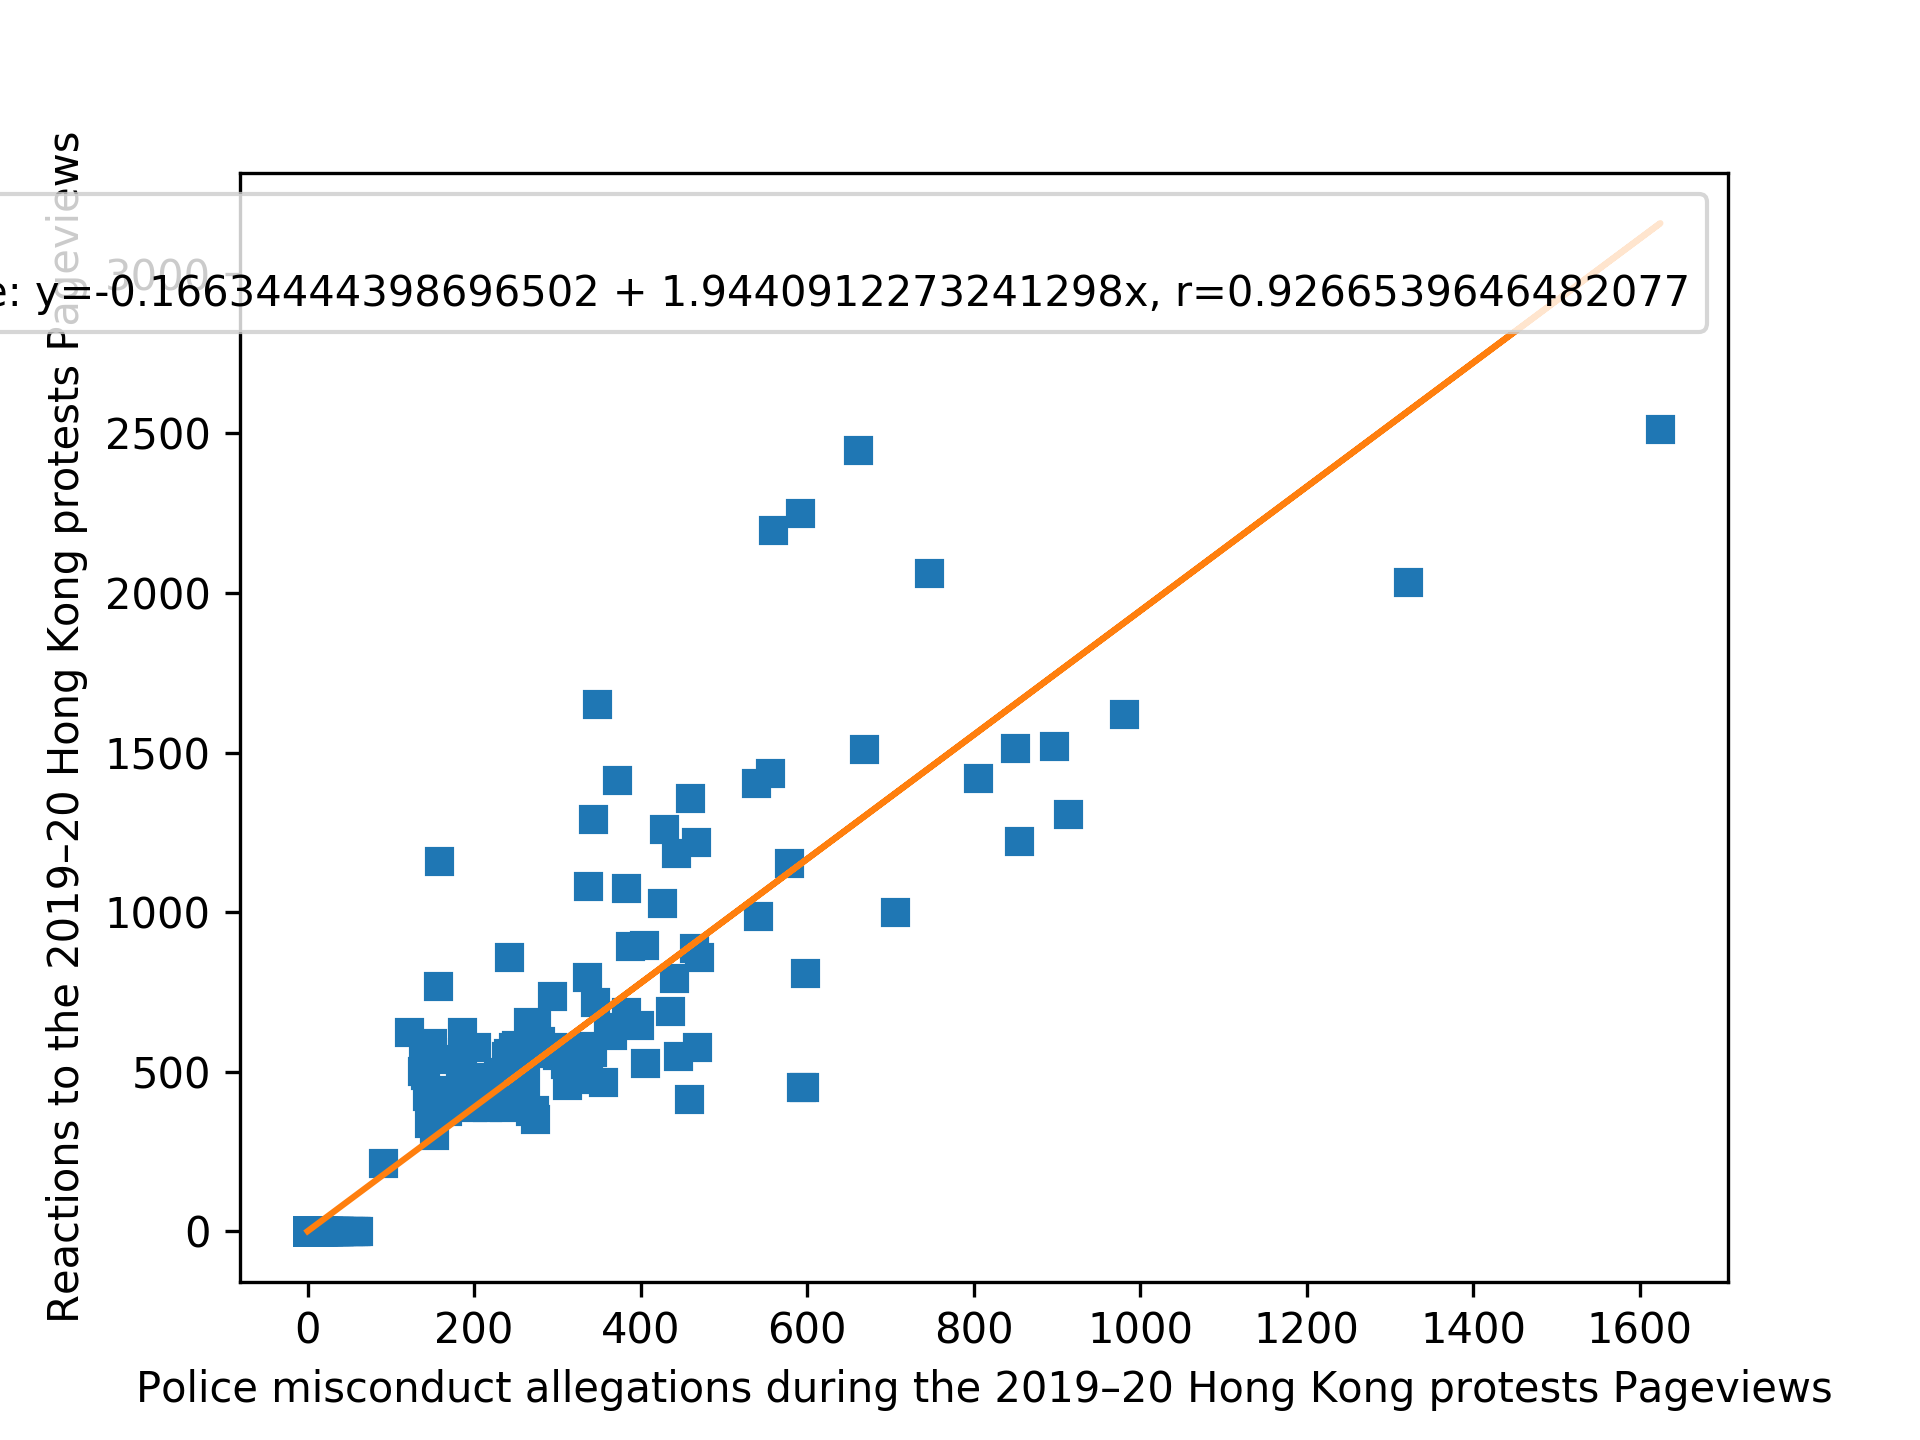
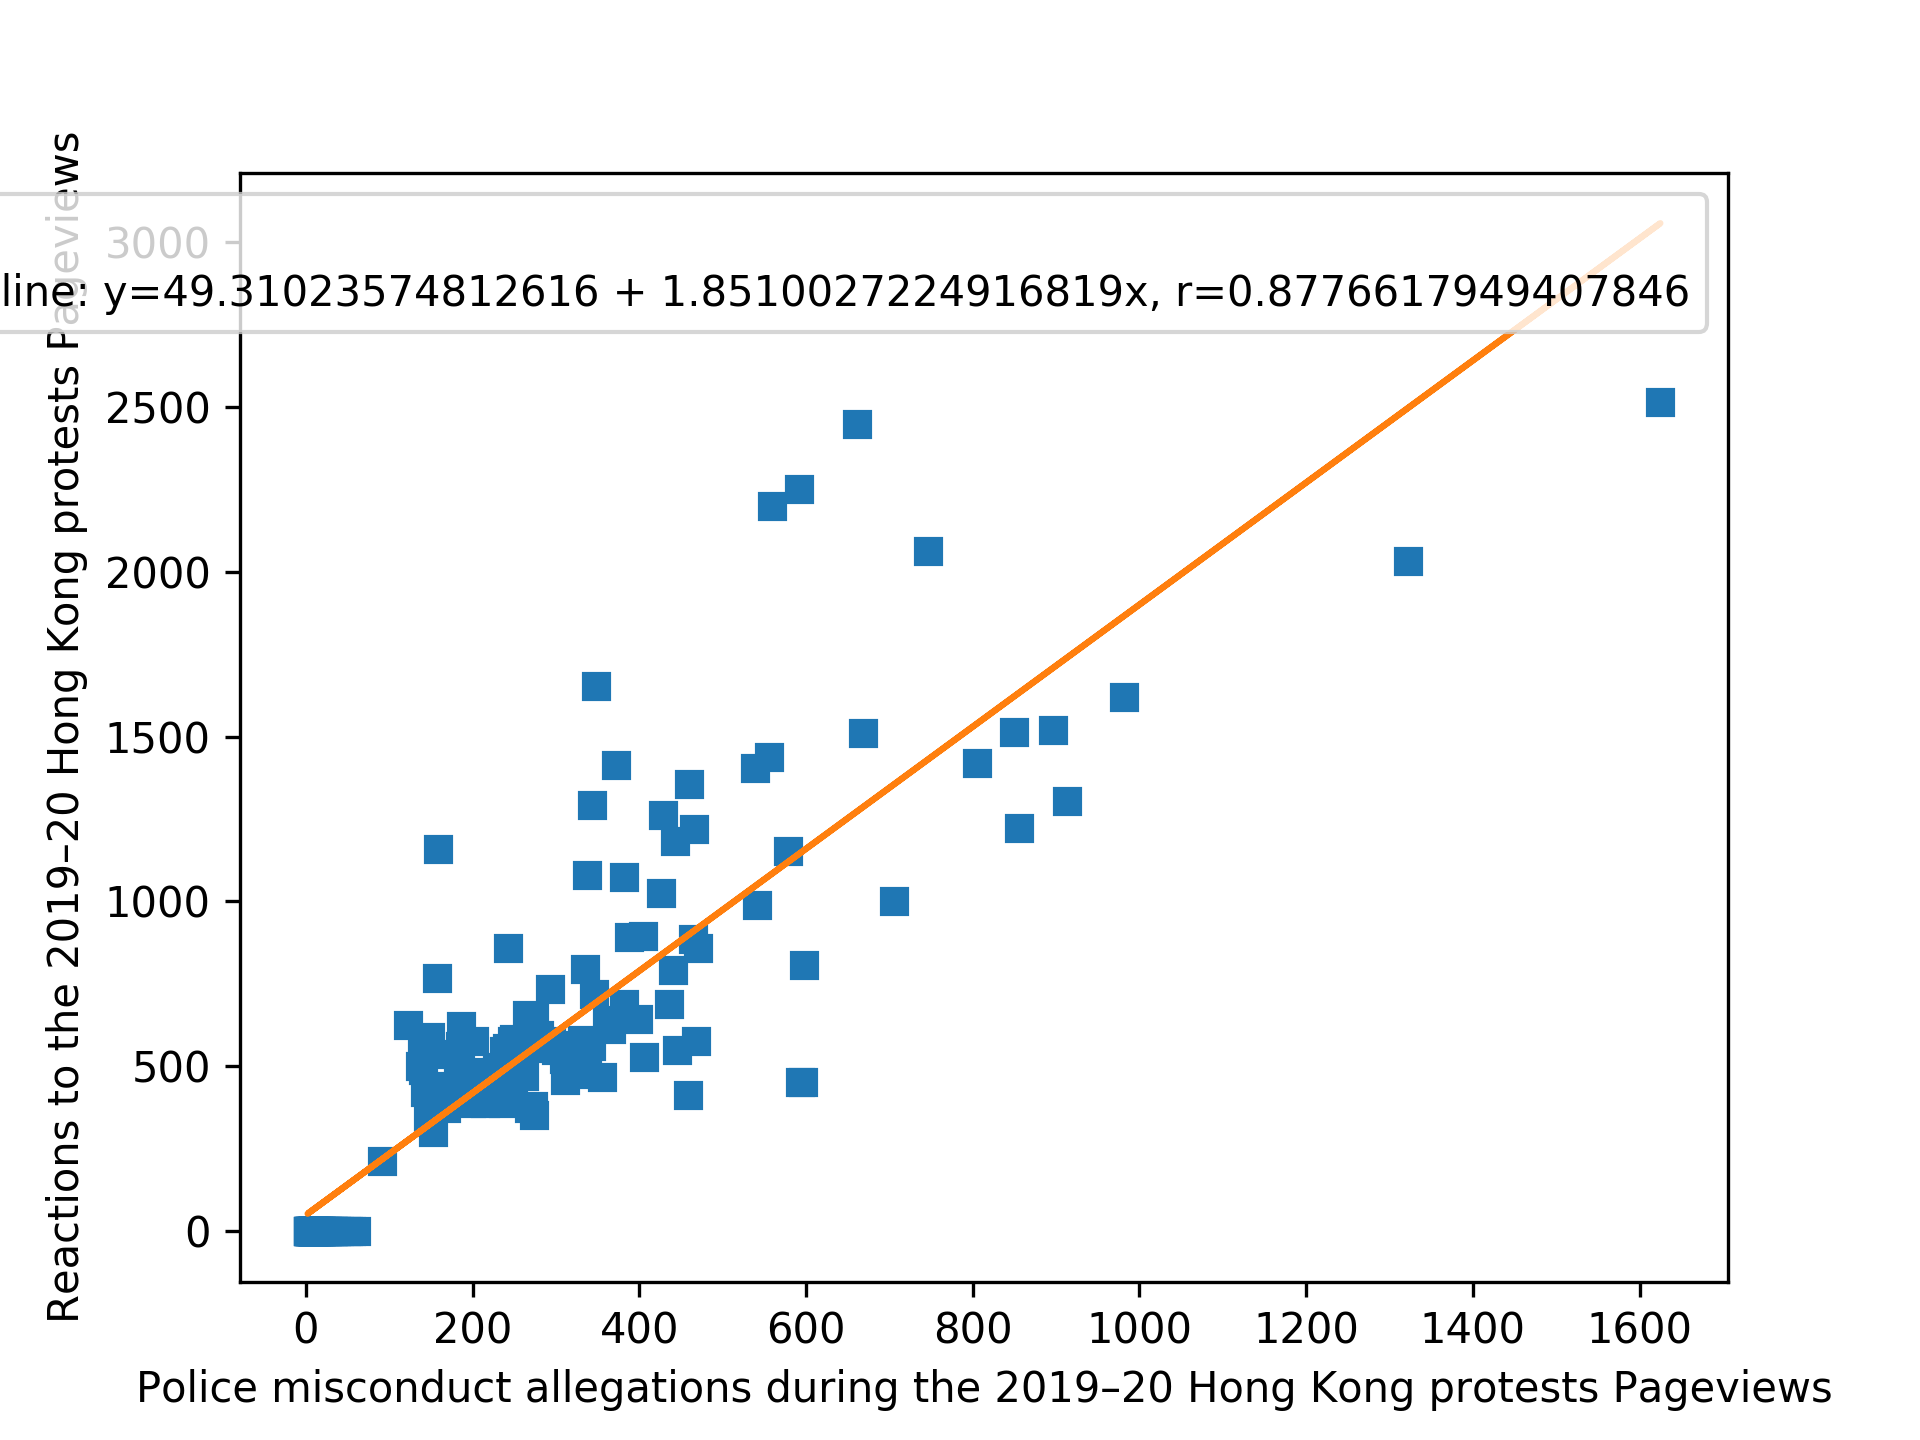
correlation with date range

diff --git a/correlation.py b/correlation.py
@@ -76,10 +76,22 @@ def plotViewCorrelations(dct):
     keys = list(dct.keys())
     heap = []
     for keyx in keys:
-        x = dct[keyx]['Count']
+        temp = dct[keyx]
+        temp['Date'] = pd.to_datetime(temp['Date'])
+        mask = (temp['Date'] >= dt.strptime("2019-06-10", "%Y-%m-%d")) & (temp['Date'] <= dt.strptime("2019-12-10", "%Y-%m-%d"))
+        df = temp.loc[mask]
+        x = df['Count']
+        # x = dct[keyx]['Count']
         for keyy in keys:
             if (keyx != keyy and "Talk" not in keyx and "Talk" not in keyy):
-                y = dct[keyy]['Count']
+                temp = dct[keyy]
+                temp['Date'] = pd.to_datetime(temp['Date'])
+                mask = (temp['Date'] >= dt.strptime("2019-06-10", "%Y-%m-%d")) & (temp['Date'] <= dt.strptime("2019-12-10", "%Y-%m-%d"))
+                df = temp.loc[mask]
+                y = df['Count']
+                # y = dct[keyy]['Count']
+
+                # Pearson's correlation coefficient
                 corr = x.corr(y)
                 if (math.isnan(corr)):
                     continue
@@ -126,7 +138,14 @@ def plotRevisonCorrelations(dct):
         # https://stackoverflow.com/questions/26097916/convert-pandas-series-to-dataframe
         xdf = xdf.to_frame().reset_index()
         xdf.columns = ['timestamp', 'Count']
-        x = xdf['Count']
+        # https://stackoverflow.com/questions/46295355/pandas-cant-compare-offset-naive-and-offset-aware-datetimes
+        xdf['timestamp'] = xdf['timestamp'].dt.tz_localize(None)
+
+        mask = (xdf['timestamp'] >= dt.strptime("2019-06-10", "%Y-%m-%d")) & (xdf['timestamp'] <= dt.strptime("2019-12-10", "%Y-%m-%d"))
+        df = xdf.loc[mask]
+        x = df['Count']
+
+        # x = xdf['Count']
         for keyy in keys:
             if (keyx != keyy and "Talk" not in keyx and "Talk" not in keyy):
                 ydf = dct[keyy]
@@ -134,7 +153,13 @@ def plotRevisonCorrelations(dct):
                 ydf = ydf.set_index('timestamp').resample('D')['size'].count()
                 ydf = ydf.to_frame().reset_index()
                 ydf.columns = ['timestamp', 'Count']
-                y = ydf['Count']
+                ydf['timestamp'] = ydf['timestamp'].dt.tz_localize(None)
+
+                mask = (ydf['timestamp'] >= dt.strptime("2019-06-10", "%Y-%m-%d")) & (ydf['timestamp'] <= dt.strptime("2019-12-10", "%Y-%m-%d"))
+                df = ydf.loc[mask]
+                y = df['Count']
+
+                # y = ydf['Count']
                 corr = x.corr(y)
                 if (math.isnan(corr)):
                     continue
@@ -178,7 +203,13 @@ def plotRVCorrelations(viewDct, revDct):
     revKeys = list(revDct.keys())
     heap = []
     for keyx in viewKeys:
-        x = viewDct[keyx]['Count']
+        temp = viewDct[keyx]
+        temp['Date'] = pd.to_datetime(temp['Date'])
+        mask = (temp['Date'] >= dt.strptime("2019-06-10", "%Y-%m-%d")) & (temp['Date'] <= dt.strptime("2019-12-10", "%Y-%m-%d"))
+        df = temp.loc[mask]
+        x = df['Count']
+
+        # x = viewDct[keyx]['Count']
         for keyy in revKeys:
             if (prettyPrint(keyx) != prettyPrint(keyy) and "Talk" not in keyx and "Talk" not in keyy):
                 ydf = revDct[keyy]
@@ -186,8 +217,14 @@ def plotRVCorrelations(viewDct, revDct):
                 ydf = ydf.set_index('timestamp').resample('D')['size'].count()
                 ydf = ydf.to_frame().reset_index()
                 ydf.columns = ['timestamp', 'Count']
-                y = ydf['Count']
-                corr = x.corr(y).item()
+                ydf['timestamp'] = ydf['timestamp'].dt.tz_localize(None)
+
+                mask = (ydf['timestamp'] >= dt.strptime("2019-06-10", "%Y-%m-%d")) & (ydf['timestamp'] <= dt.strptime("2019-12-10", "%Y-%m-%d"))
+                df = ydf.loc[mask]
+                y = df['Count']
+
+                # y = ydf['Count']
+                corr = x.corr(y)
                 if (math.isnan(corr)):
                     continue
                 # change for top N views corr
